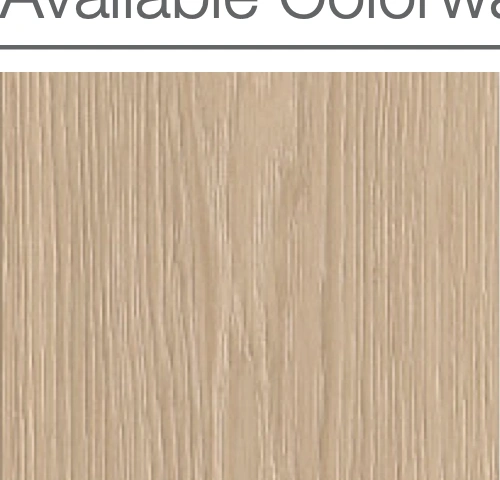
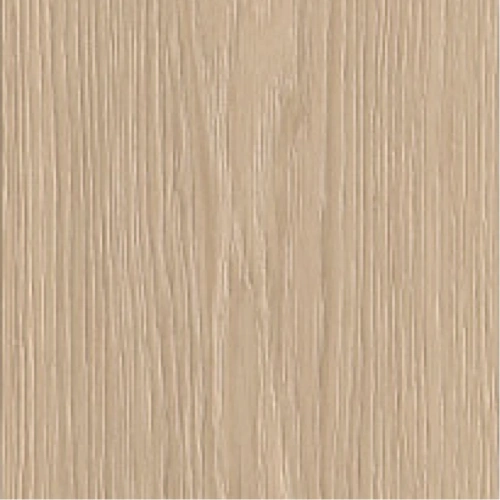
Fix crop defect on Best Tier CA399 flooring photos (remove white strip/header line) and increase cart top spacing

diff --git a/fixflip-storefront-child/functions.php b/fixflip-storefront-child/functions.php
@@ -891,7 +891,7 @@ function fixflip_custom_cart_item_thumbnail( $thumbnail, $cart_item, $cart_item_
         return $thumbnail;
     }
     $sku = fixflip_resolve_sku( $product );
-    $img_url = get_stylesheet_directory_uri() . '/images/hero_' . $sku . '.webp';
+    $img_url = get_stylesheet_directory_uri() . '/images/hero_' . $sku . '.webp?v=' . time();
     $product_permalink = apply_filters( 'woocommerce_cart_item_permalink', $product->is_visible() ? $product->get_permalink( $cart_item ) : '', $cart_item, $cart_item_key );
 
     $img_html = '<img src="' . esc_url( $img_url ) . '" alt="' . esc_attr( $product->get_name() ) . '" class="attachment-woocommerce_thumbnail size-woocommerce_thumbnail fd-cart-img" style="width: 80px; height: 80px; min-width: 80px; max-width: 80px; object-fit: cover; border-radius: 4px; border: 1.5px solid #e2e8f0; display: block; box-shadow: 0 2px 6px rgba(0,0,0,0.04);" />';
@@ -908,7 +908,7 @@ add_filter( 'woocommerce_product_get_image', 'fixflip_custom_product_image_fallb
 function fixflip_custom_product_image_fallback( $image, $product, $size, $attr, $placeholder ) {
     if ( empty( $image ) || strpos( $image, 'placeholder' ) !== false || ( is_object( $product ) && method_exists( $product, 'get_id' ) && ! has_post_thumbnail( $product->get_id() ) ) ) {
         $sku = fixflip_resolve_sku( $product );
-        $img_url = get_stylesheet_directory_uri() . '/images/hero_' . $sku . '.webp';
+        $img_url = get_stylesheet_directory_uri() . '/images/hero_' . $sku . '.webp?v=' . time();
         $alt = ( is_object( $product ) && method_exists( $product, 'get_name' ) ) ? esc_attr( $product->get_name() ) : 'FixFlip Flooring';
         $style = isset( $attr['style'] ) ? esc_attr( $attr['style'] ) : 'width: 100%; height: 100%; object-fit: cover;';
         $class = isset( $attr['class'] ) ? esc_attr( $attr['class'] ) : 'attachment-woocommerce_thumbnail size-woocommerce_thumbnail';
@@ -926,7 +926,7 @@ function fixflip_checkout_product_image( $name, $cart_item, $cart_item_key ) {
     $product = isset( $cart_item['data'] ) ? $cart_item['data'] : null;
     $raw_title = $product ? $product->get_name() : '';
     $sku = fixflip_resolve_sku( $product );
-    $img_url = get_stylesheet_directory_uri() . '/images/hero_' . $sku . '.webp';
+    $img_url = get_stylesheet_directory_uri() . '/images/hero_' . $sku . '.webp?v=' . time();
     $thumbnail = '<img src="' . esc_url( $img_url ) . '" style="width: 52px; height: 52px; min-width: 52px; object-fit: cover; border-radius: 4px; border: 1.5px solid #cbd5e1; flex-shrink: 0; display: block;" alt="' . esc_attr($raw_title) . '">';
     
     return '<div style="display: inline-flex; align-items: center; gap: 12px; vertical-align: middle;">' . $thumbnail . '<span style="font-size: 15px; font-weight: 800; color: #0f172a; line-height: 1.3;">' . esc_html($raw_title) . '</span></div>';

diff --git a/fixflip-storefront-child/page-cart.php b/fixflip-storefront-child/page-cart.php
@@ -17,11 +17,11 @@ get_header();
 $theme_uri = get_stylesheet_directory_uri();
 ?>
 
-<div class="fd-cart-page-wrap" style="background: #f8fafc; min-height: 75vh; padding: 32px 16px 80px 16px; font-family: 'Inter', system-ui, -apple-system, sans-serif; color: #0f172a;">
+<div class="fd-cart-page-wrap" style="background: #f8fafc; min-height: 75vh; padding: 44px 20px 80px 20px; font-family: 'Inter', system-ui, -apple-system, sans-serif; color: #0f172a;">
     <div style="max-width: 1240px; margin: 0 auto;">
 
         <!-- BREADCRUMBS -->
-        <div class="fd-breadcrumbs" style="font-size: 13.5px; font-weight: 500; color: #64748b; margin-bottom: 20px; display: flex; align-items: center; flex-wrap: wrap; gap: 6px;">
+        <div class="fd-breadcrumbs" style="font-size: 13.5px; font-weight: 500; color: #64748b; margin-bottom: 22px; display: flex; align-items: center; flex-wrap: wrap; gap: 6px;">
             <a href="/" style="color: #007bff; font-weight: 700; text-decoration: none;">Home</a>
             <span style="color: #94a3b8;">&rsaquo;</span>
             <a href="/commercial-flooring/" style="color: #007bff; font-weight: 700; text-decoration: none;">Commercial Flooring</a>
